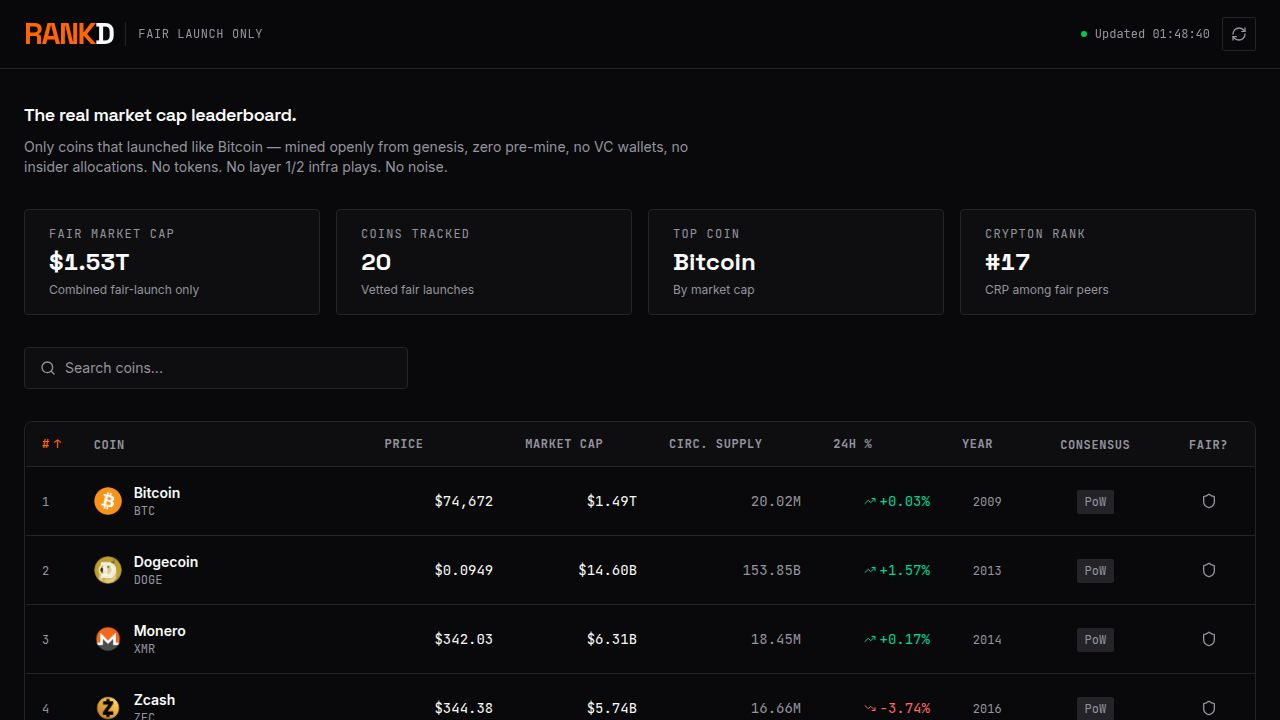
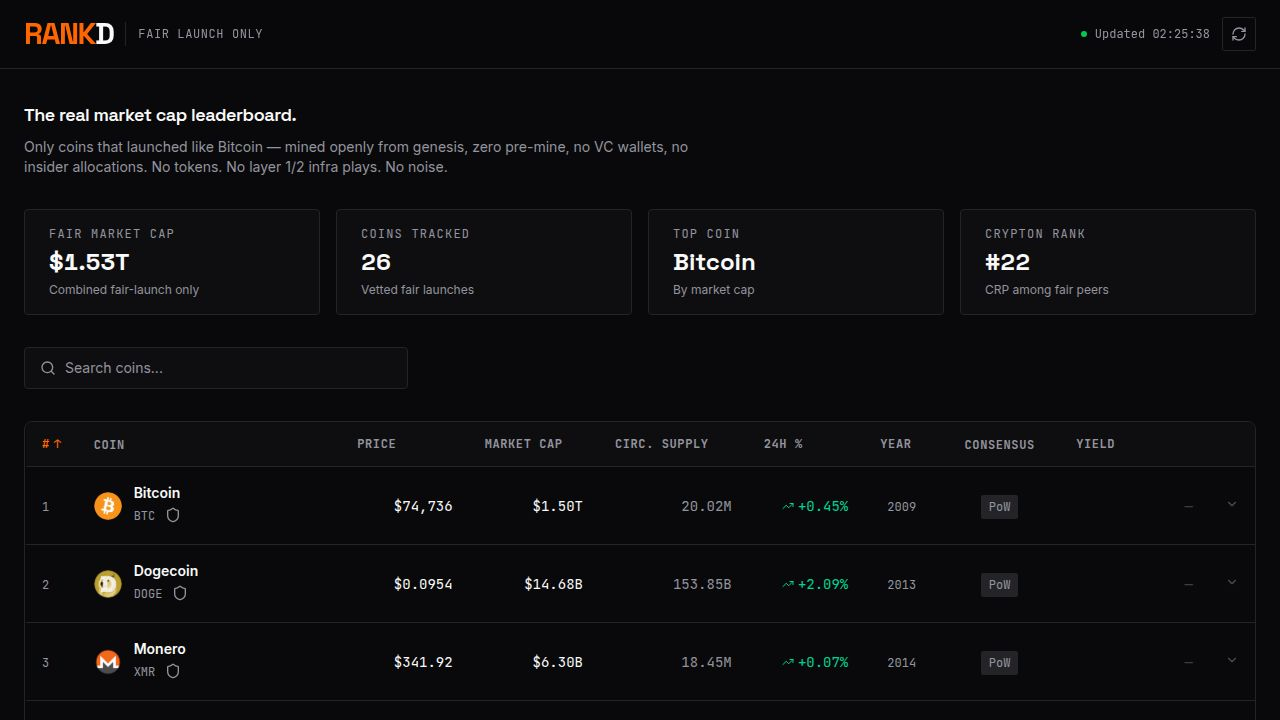
Add a yield column and move fair launch information to the left side
Adds a 'stakingApy' and 'yieldType' field to the FairLaunchCoin interface and schema, and updates the UI to display a new 'Yield' column and reposition the fair launch story.

Replit-Commit-Author: Agent
Replit-Commit-Session-Id: 898fac16-9fe2-4f01-9be4-74b6f3bbcb07
Replit-Commit-Checkpoint-Type: full_checkpoint
Replit-Commit-Event-Id: d5f06adb-206f-4ec9-9fa3-d35a0acad624
Replit-Commit-Screenshot-Url: https://storage.googleapis.com/screenshot-production-us-central1/131d5c3d-8feb-43fd-b26e-9d912ead668c/898fac16-9fe2-4f01-9be4-74b6f3bbcb07/DwK3ujE
Replit-Helium-Checkpoint-Created: true

diff --git a/artifacts/rankd/src/pages/Home.tsx b/artifacts/rankd/src/pages/Home.tsx
@@ -11,14 +11,14 @@ import { formatMoney, formatPrice, formatNumber, formatPercent } from "@/lib/for
 import {
   Search, RefreshCw, TrendingUp, TrendingDown, Shield, Info,
   Award, Globe, ExternalLink, Github, ChevronDown, ChevronUp,
-  Cpu, Activity,
+  Cpu, Activity, Percent,
 } from "lucide-react";
 import { motion, AnimatePresence } from "framer-motion";
 import {
   AreaChart, Area, XAxis, YAxis, Tooltip, ResponsiveContainer,
 } from "recharts";
 
-type SortField = "rank" | "price" | "marketCap" | "circulatingSupply" | "change24h" | "launchYear";
+type SortField = "rank" | "price" | "marketCap" | "circulatingSupply" | "change24h" | "launchYear" | "stakingApy";
 type SortDir = "asc" | "desc";
 
 interface WhyFairTooltipProps {
@@ -111,7 +111,7 @@ function SkeletonRow({ index }: { index: number }) {
       transition={{ delay: index * 0.03 }}
       className="border-b border-border"
     >
-      {[48, 160, 120, 130, 130, 100, 80, 80, 40].map((w, i) => (
+      {[48, 160, 120, 130, 130, 100, 80, 80, 90, 40].map((w, i) => (
         <td key={i} className="px-4 py-4">
           <div
             className="h-4 rounded bg-muted animate-pulse"
@@ -188,73 +188,20 @@ function CoinDetailPanel({ coin }: CoinDetailPanelProps) {
 
   return (
     <div className="grid grid-cols-1 lg:grid-cols-[1fr_2fr_1fr] gap-6 p-6">
-      {/* Left: Identity + links */}
-      <div className="flex flex-col gap-4">
-        <div className="flex items-center gap-4">
-          <CoinLogo imageUrl={coin.imageUrl} name={coin.name} symbol={coin.symbol} size="lg" />
-          <div>
-            <div className="flex items-center gap-2 flex-wrap">
-              <h2 className="text-xl font-display font-bold text-foreground">{coin.name}</h2>
-              {coin.isFeatured && (
-                <span className="flex items-center gap-1 px-1.5 py-0.5 rounded text-xs font-mono font-bold bg-primary/20 text-primary border border-primary/30">
-                  <Award className="w-3 h-3" /> Featured
-                </span>
-              )}
-            </div>
-            <span className="text-sm font-mono text-muted-foreground">{coin.symbol} · Rank #{coin.rank}</span>
+      {/* Left: Fair launch story */}
+      <div className="flex flex-col gap-3">
+        <div className="text-xs font-mono text-muted-foreground uppercase tracking-wider">Fair Launch Story</div>
+        <div className="bg-background rounded-lg border border-border p-4 flex flex-col gap-3 h-full">
+          <div className="flex items-center gap-2">
+            <Shield className="w-4 h-4 text-primary flex-shrink-0" />
+            <span className="text-sm font-semibold text-foreground">Verified Fair Launch</span>
           </div>
-        </div>
-
-        <div className="grid grid-cols-2 gap-3">
-          <div className="bg-background rounded-lg border border-border p-3">
-            <div className="text-xs font-mono text-muted-foreground uppercase tracking-wider mb-1">Price</div>
-            <div className="text-lg font-mono font-bold text-foreground">{formatPrice(coin.price)}</div>
-          </div>
-          <div className="bg-background rounded-lg border border-border p-3">
-            <div className="text-xs font-mono text-muted-foreground uppercase tracking-wider mb-1">24h Change</div>
-            <div className={`text-lg font-mono font-bold flex items-center gap-1 ${isPositive ? "text-emerald-400" : isNegative ? "text-red-400" : "text-muted-foreground"}`}>
-              {isPositive && <TrendingUp className="w-4 h-4" />}
-              {isNegative && <TrendingDown className="w-4 h-4" />}
-              {formatPercent(coin.change24h)}
+          <p className="text-sm text-muted-foreground leading-relaxed">{coin.whyFair}</p>
+          <div className="mt-auto pt-2 border-t border-border">
+            <div className="text-xs text-muted-foreground">
+              No pre-mine · No VC allocation · No insider wallets
             </div>
           </div>
-          <div className="bg-background rounded-lg border border-border p-3">
-            <div className="text-xs font-mono text-muted-foreground uppercase tracking-wider mb-1">Market Cap</div>
-            <div className="text-sm font-mono font-semibold text-foreground">{formatMoney(coin.marketCap)}</div>
-          </div>
-          <div className="bg-background rounded-lg border border-border p-3">
-            <div className="text-xs font-mono text-muted-foreground uppercase tracking-wider mb-1">Supply</div>
-            <div className="text-sm font-mono font-semibold text-foreground">{formatNumber(coin.circulatingSupply)}</div>
-          </div>
-        </div>
-
-        <div className="flex flex-col gap-2">
-          <div className="flex items-center gap-2 text-xs text-muted-foreground">
-            <Cpu className="w-3.5 h-3.5" />
-            <span className="font-mono">{coin.algorithm}</span>
-            <span className="text-border">·</span>
-            <span className="font-mono px-1.5 py-0.5 bg-muted rounded">{coin.consensusType}</span>
-            <span className="text-border">·</span>
-            <span>{coin.launchYear}</span>
-          </div>
-
-          {links.length > 0 && (
-            <div className="flex flex-wrap gap-2 mt-1">
-              {links.map(({ href, icon: Icon, label }) => (
-                <a
-                  key={href}
-                  href={href}
-                  target="_blank"
-                  rel="noopener noreferrer"
-                  className="flex items-center gap-1.5 px-3 py-1.5 rounded-md border border-border text-xs text-muted-foreground hover:text-foreground hover:border-primary transition-colors"
-                >
-                  <Icon className="w-3.5 h-3.5" />
-                  {label}
-                  <ExternalLink className="w-3 h-3 opacity-60" />
-                </a>
-              ))}
-            </div>
-          )}
         </div>
       </div>
 
@@ -318,20 +265,86 @@ function CoinDetailPanel({ coin }: CoinDetailPanelProps) {
         </div>
       </div>
 
-      {/* Right: Fair launch story */}
-      <div className="flex flex-col gap-3">
-        <div className="text-xs font-mono text-muted-foreground uppercase tracking-wider">Fair Launch Story</div>
-        <div className="bg-background rounded-lg border border-border p-4 flex flex-col gap-3 h-full">
-          <div className="flex items-center gap-2">
-            <Shield className="w-4 h-4 text-primary flex-shrink-0" />
-            <span className="text-sm font-semibold text-foreground">Verified Fair Launch</span>
+      {/* Right: Identity + links */}
+      <div className="flex flex-col gap-4">
+        <div className="flex items-center gap-4">
+          <CoinLogo imageUrl={coin.imageUrl} name={coin.name} symbol={coin.symbol} size="lg" />
+          <div>
+            <div className="flex items-center gap-2 flex-wrap">
+              <h2 className="text-xl font-display font-bold text-foreground">{coin.name}</h2>
+              {coin.isFeatured && (
+                <span className="flex items-center gap-1 px-1.5 py-0.5 rounded text-xs font-mono font-bold bg-primary/20 text-primary border border-primary/30">
+                  <Award className="w-3 h-3" /> Featured
+                </span>
+              )}
+            </div>
+            <span className="text-sm font-mono text-muted-foreground">{coin.symbol} · Rank #{coin.rank}</span>
           </div>
-          <p className="text-sm text-muted-foreground leading-relaxed">{coin.whyFair}</p>
-          <div className="mt-auto pt-2 border-t border-border">
-            <div className="text-xs text-muted-foreground">
-              No pre-mine · No VC allocation · No insider wallets
+        </div>
+
+        <div className="grid grid-cols-2 gap-3">
+          <div className="bg-background rounded-lg border border-border p-3">
+            <div className="text-xs font-mono text-muted-foreground uppercase tracking-wider mb-1">Price</div>
+            <div className="text-lg font-mono font-bold text-foreground">{formatPrice(coin.price)}</div>
+          </div>
+          <div className="bg-background rounded-lg border border-border p-3">
+            <div className="text-xs font-mono text-muted-foreground uppercase tracking-wider mb-1">24h Change</div>
+            <div className={`text-lg font-mono font-bold flex items-center gap-1 ${isPositive ? "text-emerald-400" : isNegative ? "text-red-400" : "text-muted-foreground"}`}>
+              {isPositive && <TrendingUp className="w-4 h-4" />}
+              {isNegative && <TrendingDown className="w-4 h-4" />}
+              {formatPercent(coin.change24h)}
             </div>
           </div>
+          <div className="bg-background rounded-lg border border-border p-3">
+            <div className="text-xs font-mono text-muted-foreground uppercase tracking-wider mb-1">Market Cap</div>
+            <div className="text-sm font-mono font-semibold text-foreground">{formatMoney(coin.marketCap)}</div>
+          </div>
+          <div className="bg-background rounded-lg border border-border p-3">
+            <div className="text-xs font-mono text-muted-foreground uppercase tracking-wider mb-1">Supply</div>
+            <div className="text-sm font-mono font-semibold text-foreground">{formatNumber(coin.circulatingSupply)}</div>
+          </div>
+          {coin.stakingApy != null && (
+            <div className="col-span-2 bg-amber-950/20 rounded-lg border border-primary/30 p-3">
+              <div className="text-xs font-mono text-primary uppercase tracking-wider mb-1 flex items-center gap-1">
+                <Percent className="w-3 h-3" /> Staking Yield
+              </div>
+              <div className="flex items-center justify-between">
+                <div className="text-lg font-mono font-bold text-primary">{coin.stakingApy}% APY</div>
+                {coin.yieldType && (
+                  <span className="text-xs font-mono px-1.5 py-0.5 bg-primary/20 text-primary rounded">{coin.yieldType}</span>
+                )}
+              </div>
+            </div>
+          )}
+        </div>
+
+        <div className="flex flex-col gap-2">
+          <div className="flex items-center gap-2 text-xs text-muted-foreground">
+            <Cpu className="w-3.5 h-3.5" />
+            <span className="font-mono">{coin.algorithm}</span>
+            <span className="text-border">·</span>
+            <span className="font-mono px-1.5 py-0.5 bg-muted rounded">{coin.consensusType}</span>
+            <span className="text-border">·</span>
+            <span>{coin.launchYear}</span>
+          </div>
+
+          {links.length > 0 && (
+            <div className="flex flex-wrap gap-2 mt-1">
+              {links.map(({ href, icon: Icon, label }) => (
+                <a
+                  key={href}
+                  href={href}
+                  target="_blank"
+                  rel="noopener noreferrer"
+                  className="flex items-center gap-1.5 px-3 py-1.5 rounded-md border border-border text-xs text-muted-foreground hover:text-foreground hover:border-primary transition-colors"
+                >
+                  <Icon className="w-3.5 h-3.5" />
+                  {label}
+                  <ExternalLink className="w-3 h-3 opacity-60" />
+                </a>
+              ))}
+            </div>
+          )}
         </div>
       </div>
     </div>
@@ -404,6 +417,7 @@ export default function Home() {
       case "circulatingSupply": aVal = a.circulatingSupply ?? -Infinity; bVal = b.circulatingSupply ?? -Infinity; break;
       case "change24h": aVal = a.change24h ?? -Infinity; bVal = b.change24h ?? -Infinity; break;
       case "launchYear": aVal = a.launchYear; bVal = b.launchYear; break;
+      case "stakingApy": aVal = a.stakingApy ?? -Infinity; bVal = b.stakingApy ?? -Infinity; break;
       default: aVal = a.rank; bVal = b.rank;
     }
     return sortDir === "asc" ? aVal - bVal : bVal - aVal;
@@ -568,6 +582,9 @@ export default function Home() {
                   <th className="px-4 py-3 text-center">
                     <span className="text-xs font-mono uppercase tracking-wider text-muted-foreground">Consensus</span>
                   </th>
+                  <th className="px-4 py-3 text-right">
+                    <SortButton field="stakingApy" label="Yield" />
+                  </th>
                   <th className="px-4 py-3 w-8" />
                 </tr>
               </thead>
@@ -576,7 +593,7 @@ export default function Home() {
                   Array.from({ length: 10 }).map((_, i) => <SkeletonRow key={i} index={i} />)
                 ) : coinsError ? (
                   <tr>
-                    <td colSpan={9} className="px-4 py-16 text-center">
+                    <td colSpan={10} className="px-4 py-16 text-center">
                       <div className="flex flex-col items-center gap-3">
                         <Info className="w-8 h-8 text-muted-foreground" />
                         <p className="text-muted-foreground">Failed to load market data.</p>
@@ -592,7 +609,7 @@ export default function Home() {
                   </tr>
                 ) : sorted.length === 0 ? (
                   <tr>
-                    <td colSpan={9} className="px-4 py-16 text-center">
+                    <td colSpan={10} className="px-4 py-16 text-center">
                       <p className="text-muted-foreground">No coins found matching "{search}"</p>
                     </td>
                   </tr>
@@ -709,6 +726,22 @@ export default function Home() {
                               </span>
                             </td>
 
+                            {/* Yield */}
+                            <td className="px-4 py-4 text-right">
+                              {coin.stakingApy != null ? (
+                                <div className="flex flex-col items-end gap-0.5">
+                                  <span className="font-mono text-sm tabular-nums text-amber-400 font-semibold">
+                                    {coin.stakingApy}%
+                                  </span>
+                                  {coin.yieldType && (
+                                    <span className="text-xs font-mono text-muted-foreground">{coin.yieldType}</span>
+                                  )}
+                                </div>
+                              ) : (
+                                <span className="font-mono text-sm text-muted-foreground/40">—</span>
+                              )}
+                            </td>
+
                             {/* Expand indicator */}
                             <td className="px-4 py-4 text-center w-8">
                               <span className="text-muted-foreground/50 group-hover:text-muted-foreground transition-colors inline-flex">
@@ -729,7 +762,7 @@ export default function Home() {
                                 className={`border-b border-border ${coin.isFeatured ? "border-l-2 border-l-primary" : ""}`}
                               >
                                 <td
-                                  colSpan={9}
+                                  colSpan={10}
                                   className={`p-0 ${coin.isFeatured ? "bg-amber-950/10" : "bg-card/40"}`}
                                 >
                                   <motion.div

diff --git a/artifacts/api-server/src/lib/fair-launch-coins.ts b/artifacts/api-server/src/lib/fair-launch-coins.ts
@@ -13,6 +13,8 @@ export interface FairLaunchCoinMeta {
   website?: string;
   explorer?: string;
   github?: string;
+  stakingApy?: number | null;
+  yieldType?: string | null;
 }
 
 export const FAIR_LAUNCH_COINS: FairLaunchCoinMeta[] = [
@@ -127,6 +129,8 @@ export const FAIR_LAUNCH_COINS: FairLaunchCoinMeta[] = [
     whyFair:
       "Fair fork of Zcash in 2017 with no additional pre-mine or ICO. Community-driven from the split, treasury funded transparently by block rewards with public governance.",
     isFeatured: false,
+    stakingApy: 3.5,
+    yieldType: "Secure Node",
   },
   {
     id: "nano",
@@ -211,6 +215,8 @@ export const FAIR_LAUNCH_COINS: FairLaunchCoinMeta[] = [
     whyFair:
       "Launched as ZelCash with no pre-mine, PoW mined. Equihash algorithm, community-built decentralized infrastructure network from day one.",
     isFeatured: false,
+    stakingApy: 25,
+    yieldType: "Node Operator",
   },
   {
     id: "ergo",
@@ -309,6 +315,8 @@ export const FAIR_LAUNCH_COINS: FairLaunchCoinMeta[] = [
     whyFair:
       "First proof-of-stake coin, mined from genesis with PoW distribution then transitioning to PoS. No pre-mine, the original energy-efficient alternative.",
     isFeatured: false,
+    stakingApy: 1,
+    yieldType: "PoS Minting",
   },
   {
     id: "zcoin",
@@ -365,6 +373,8 @@ export const FAIR_LAUNCH_COINS: FairLaunchCoinMeta[] = [
     whyFair:
       "Launched as Burst in 2014 with no pre-mine and no ICO. Uses Proof of Capacity (hard-drive mining) for broad participation. Community rebranded to Signum; no insiders.",
     isFeatured: false,
+    stakingApy: 5,
+    yieldType: "Forging",
   },
   {
     id: "crp-crypton",
@@ -381,6 +391,8 @@ export const FAIR_LAUNCH_COINS: FairLaunchCoinMeta[] = [
     whyFair:
       "Launched inside the Utopia P2P ecosystem with no pre-mine, limited and stable emissions from block 1. Privacy-focused, community-mined from genesis with zero insider allocation.",
     isFeatured: true,
+    stakingApy: 1,
+    yieldType: "PoS Staking",
   },
 ];
 

diff --git a/artifacts/api-server/src/routes/fairlaunch.ts b/artifacts/api-server/src/routes/fairlaunch.ts
@@ -200,6 +200,8 @@ function buildCoinResponse(
     website: meta.website ?? null,
     explorer: meta.explorer ?? null,
     github: meta.github ?? null,
+    stakingApy: meta.stakingApy ?? null,
+    yieldType: meta.yieldType ?? null,
   };
 }
 
